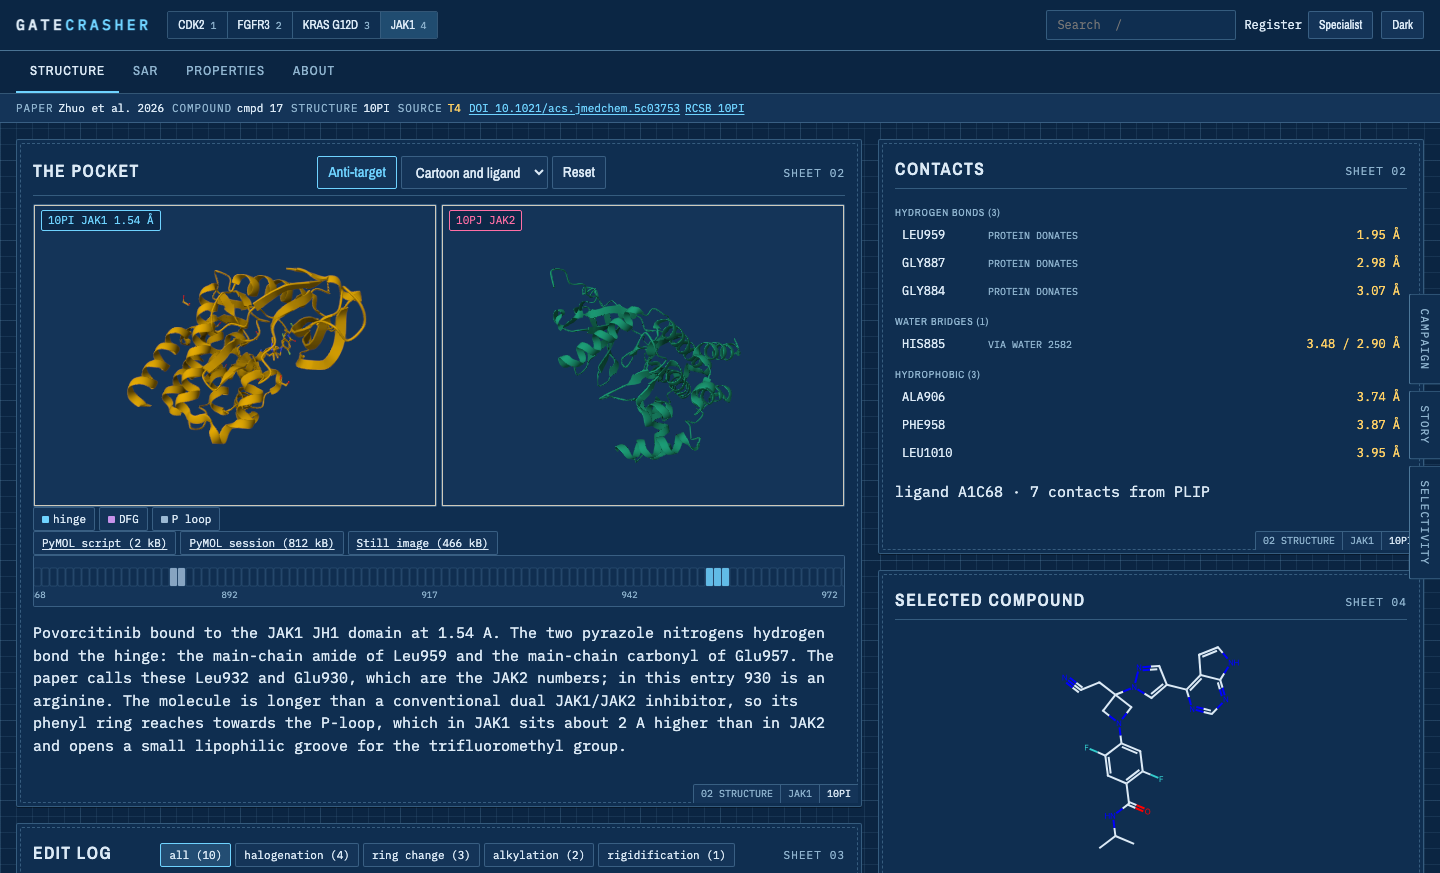
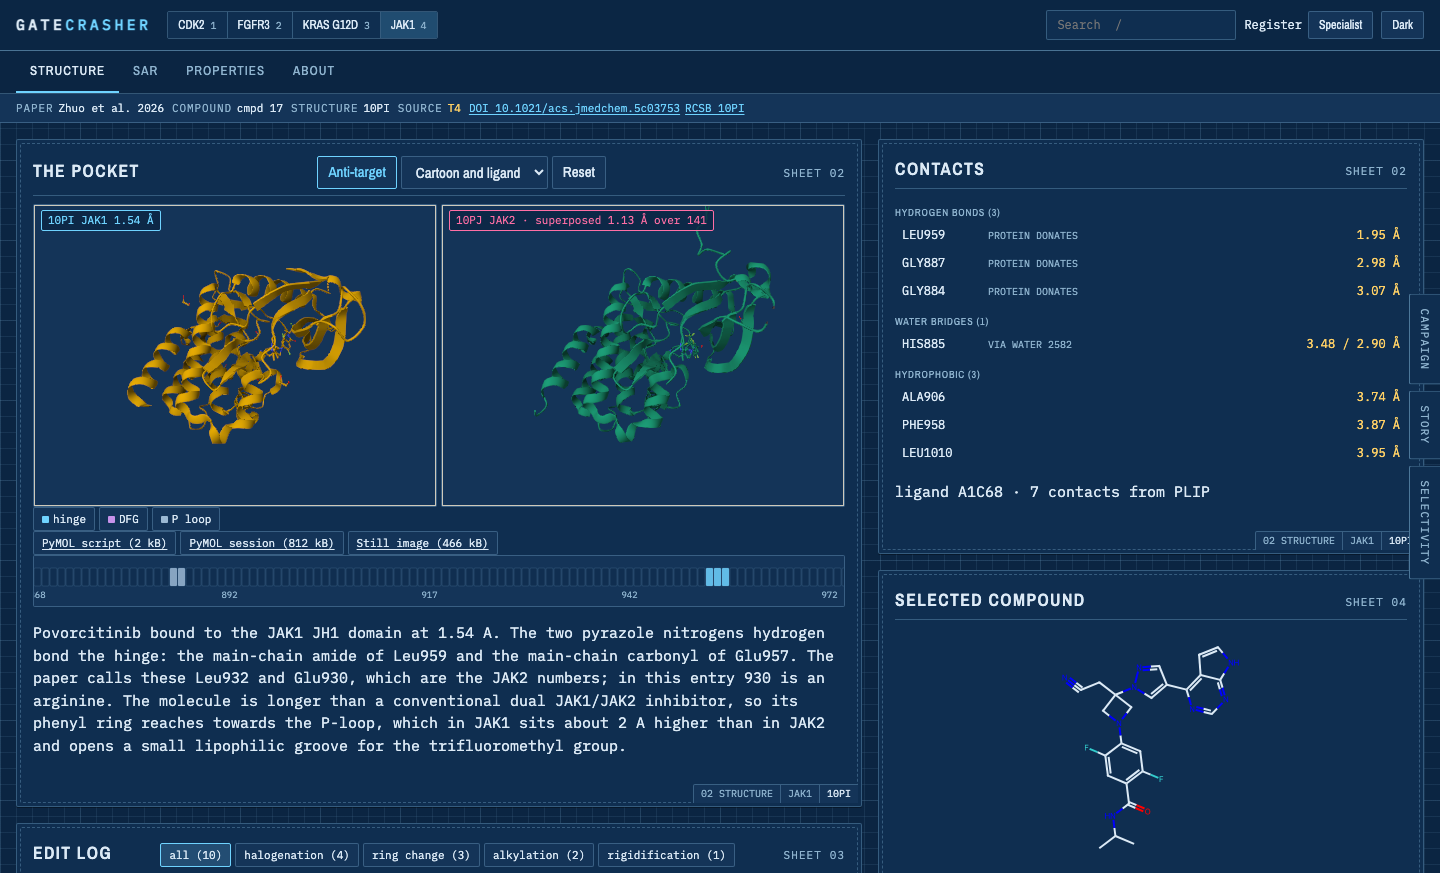
Superpose the twin before locking the cameras, and test that a canvas has drawn
Showing one copy per viewer exposed a latent bug: the anti-target viewer was
blank. The cameras are locked together (BUILD_SPEC 7.2) while each entry sits
in its own crystal frame, 10PI and 10PJ being 89 A apart, so the twin's camera
was pointed at empty space. With both copies present it had caught enough
protein to look fine.

- gc struct superposes every non-primary structure onto the paper's primary
  and ships the transform: JAK1 10PJ onto 10PI is 1.13 A over 141 pairs, and
  the two ligands land 2.0 A apart.
- The viewer applies it to the coordinates as it filters the chain, so what is
  measured is what is drawn. The twin's label carries the RMSD and the pair
  count: moving a structure is something a reader is entitled to know about.
- Both the RMSD and the MEDIAN CA deviation are published. FGFR3 4K33 onto
  FGFR2 8E1X is 3.82 A whole-chain but 1.01 A median: 26 residues in five
  loops carry the error, and one number alone would misrepresent the fit.
  Residues are paired by an offset discovered from the data (+9 for FGFR, +27
  for JAK1 against JAK2, the same +27 that separates Glu957 from Glu930).
- The browser checks now assert a canvas has DRAWN something, by counting
  distinct pixels, polled rather than sampled once. "A canvas exists" passed
  throughout the day the twin viewer was blank.

95 checks pass locally and against production.

Claude-Session: https://claude.ai/code/session_01HkDbmCTHqoA5exPm7uRHnP

Changed region(s): [[0.375, 0.2784, 0.5312, 0.5258], [0.375, 0.2474, 0.5, 0.2784], [0.1875, 0.3711, 0.2188, 0.4021]]

diff --git a/web/js/viewers/molstar.js b/web/js/viewers/molstar.js
@@ -18,7 +18,7 @@ import { loadLibrary } from '../loader.js';
  *
  * Only the _atom_site loop is touched. Everything else in the file is left alone, and if the
  * loop cannot be understood the original text is returned rather than a half-filtered one. */
-export function oneCopy(text, chain) {
+export function oneCopy(text, chain, transform = null) {
   const lines = text.split('\n');
   const headerStart = lines.findIndex((line) => line.startsWith('_atom_site.'));
   if (headerStart < 0) return text;
@@ -32,7 +32,13 @@ export function oneCopy(text, chain) {
   const authColumn = columns.indexOf('auth_asym_id');
   const entityColumn = columns.indexOf('label_entity_id');
   const groupColumn = columns.indexOf('group_PDB');
+  const xColumn = columns.indexOf('Cartn_x');
+  const yColumn = columns.indexOf('Cartn_y');
+  const zColumn = columns.indexOf('Cartn_z');
   if (authColumn < 0) return text;
+  if (transform && (transform.length < 12 || xColumn < 0 || yColumn < 0 || zColumn < 0)) {
+    return text;
+  }
 
   const rowStart = index;
   let rowEnd = rowStart;
@@ -66,9 +72,28 @@ export function oneCopy(text, chain) {
   }
 
   const kept = rows.filter((row) => keep.has(row.parts[authColumn]));
-  if (!kept.length || kept.length === rows.length) return text;
-  return [...lines.slice(0, rowStart), ...kept.map((row) => row.line), ...lines.slice(rowEnd)]
-    .join('\n');
+  if (!kept.length) return text;
+  if (kept.length === rows.length && !transform) return text;
+
+  /* A superposition, applied to the coordinates themselves. The twin view locks the two
+   * cameras together, and two entries sit in their own crystal frames: 10PI and 10PJ are
+   * 89 A apart, so a shared camera showed one structure and empty space. Moving the atoms
+   * rather than the camera keeps every later measurement, highlight and focus honest,
+   * because the viewer then measures exactly what it draws. */
+  const moved = transform ? kept.map((row) => {
+    const x = Number(row.parts[xColumn]);
+    const y = Number(row.parts[yColumn]);
+    const z = Number(row.parts[zColumn]);
+    if (!Number.isFinite(x) || !Number.isFinite(y) || !Number.isFinite(z)) return row.line;
+    const [m0, m1, m2, m3, m4, m5, m6, m7, m8, m9, m10, m11] = transform;
+    const parts = [...row.parts];
+    parts[xColumn] = (m0 * x + m1 * y + m2 * z + m3).toFixed(3);
+    parts[yColumn] = (m4 * x + m5 * y + m6 * z + m7).toFixed(3);
+    parts[zColumn] = (m8 * x + m9 * y + m10 * z + m11).toFixed(3);
+    return parts.join(' ');
+  }) : kept.map((row) => row.line);
+
+  return [...lines.slice(0, rowStart), ...moved, ...lines.slice(rowEnd)].join('\n');
 }
 
 const OPTIONS = {
@@ -162,12 +187,14 @@ export class StructureViewer {
    * assumed: an mmCIF served without an extension still has to load.
    *
    * `chain` keeps one copy of the protein: see oneCopy below. */
-  async load(name, url, { representation = 'cartoon', colour = null, chain = null } = {}) {
+  async load(name, url, { representation = 'cartoon', colour = null, chain = null,
+    transform = null } = {}) {
     const response = await fetch(url);
     if (!response.ok) throw new Error(`${url}: ${response.status}`);
     const raw = await response.text();
     const format = /\.cif|\.bcif/i.test(url) || raw.startsWith('data_') ? 'mmcif' : 'pdb';
-    const text = format === 'mmcif' && chain ? oneCopy(raw, chain) : raw;
+    const text = format === 'mmcif' && (chain || transform)
+      ? oneCopy(raw, chain, transform) : raw;
 
     if (this.loaded.has(name)) await this.clear(name);
     const data = await this.plugin.builders.data.rawData({ data: text });

diff --git a/web/js/data.js b/web/js/data.js
@@ -30,7 +30,7 @@ export async function loadPaper(slug, base = 'data') {
       .catch(() => [entry.pdb_id, null]))));
 
   const [paper, assays, structures, compoundsCsv, measurementsCsv, edits,
-    residuesCsv, story, cliffs, interactionPairs] = await Promise.all([
+    residuesCsv, story, cliffs, superpositions, interactionPairs] = await Promise.all([
     getJson(`${dir}/paper.json`),
     getJson(`${dir}/assays.json`),
     structuresRequest,
@@ -42,6 +42,8 @@ export async function loadPaper(slug, base = 'data') {
     getText(`${dir}/residues.csv`).catch(() => ''),
     getJson(`${dir}/story.json`).catch(() => null),
     getJson(`${dir}/cliffs.json`).catch(() => []),
+    /* How each other structure sits on the primary one, for the camera-locked twin view. */
+    getJson(`${dir}/superpositions.json`).catch(() => ({})),
     interactionsRequest,
   ]);
 
@@ -56,7 +58,7 @@ export async function loadPaper(slug, base = 'data') {
 
   const bundle = {
     slug, dir, paper, assays, structures, compounds, measurements,
-    residues, edits, story, cliffs, interactions,
+    residues, edits, story, cliffs, interactions, superpositions,
     index: buildIndexes({ paper, assays, compounds, measurements, residues, edits, structures, interactions }),
   };
   CACHE.set(slug, bundle);

diff --git a/web/js/panels/structure.js b/web/js/panels/structure.js
@@ -161,9 +161,18 @@ export function initStructure(state) {
     await viewer.create({ background: colourToInt(cssToken('--surface-2')) });
     if (anti !== viewer) return;
     el.antiLabel.textContent = `${twin.pdb_id} ${twin.contains.protein}`;
+    /* Superposed onto the target before it is drawn, because the cameras are locked: two
+     * entries in their own crystal frames share a camera only if one is moved onto the
+     * other. The label says so, and by how much, rather than moving coordinates silently. */
+    const fit = bundle.superpositions?.[twin.pdb_id];
+    if (fit) {
+      el.antiLabel.textContent = `${twin.pdb_id} ${twin.contains.protein} `
+        + `· superposed ${fit.rmsd_a} Å over ${fit.pairs}`;
+    }
     await viewer.load('anti', structureUrl(twin.pdb_id), {
       representation: el.representation.value,
       chain: twin.chain,
+      transform: fit?.matrix || null,
     });
     if (anti !== viewer) return;
     viewer.focusLigand();

diff --git a/pipeline/gcrash/struct.py b/pipeline/gcrash/struct.py
@@ -355,6 +355,48 @@ def _parse_plip(xml_path: Path, pdb_id: str, ligand_code: str, resname_map: dict
     }
 
 
+def _ca_deviations(fixed_chain, moving_chain, transform) -> tuple[list[float], int, int]:
+    """Per-residue CA deviations after superposition, and the numbering offset used.
+
+    Residues are paired through an offset DISCOVERED from the data: the one that makes the
+    most residue names agree. Pairing on the raw residue number would compare unrelated
+    residues and report nonsense with no error anywhere, because two isoforms are numbered
+    differently. Measured here: +9 for FGFR3 4K33 against FGFR2 8E1X (250 names agree), 0 for
+    the two KRAS entries (169), and +27 for JAK2 10PJ against JAK1 10PI (108), which is the
+    same +27 that separates Glu957 from Glu930 at the hinge.
+
+    gemmi's own alignment would serve, but align_string_sequences wants a sequence of single
+    characters rather than the string one_letter_code returns, and AlignmentResult has no
+    cigar() to walk, so this stays arithmetic and is checked against a known answer.
+    """
+    import math
+
+    def residues(chain):
+        return [r for r in chain if r.het_flag != "H" and not r.is_water()]
+
+    fixed_residues, moving_residues = residues(fixed_chain), residues(moving_chain)
+    fixed_names = {r.seqid.num: r.name for r in fixed_residues}
+    moving_names = {r.seqid.num: r.name for r in moving_residues}
+    offset, agreeing = 0, -1
+    for candidate in range(-60, 61):
+        score = sum(1 for num, name in fixed_names.items()
+                    if moving_names.get(num - candidate) == name)
+        if score > agreeing:
+            offset, agreeing = candidate, score
+
+    moving_ca = {r.seqid.num: r.find_atom("CA", "*") for r in moving_residues}
+    deviations: list[float] = []
+    for residue in fixed_residues:
+        atom = residue.find_atom("CA", "*")
+        partner = moving_ca.get(residue.seqid.num - offset)
+        if atom is None or partner is None:
+            continue
+        moved = transform.apply(partner.pos)
+        deviations.append(math.dist((atom.pos.x, atom.pos.y, atom.pos.z),
+                                    (moved.x, moved.y, moved.z)))
+    return deviations, offset, agreeing
+
+
 def _maybe_float(value):
     try:
         return round(float(value), 1)
@@ -428,6 +470,53 @@ def build(slug: str) -> dict:
             "interactions": n_inter,
         })
         report["interactions"] += n_inter
+
+    # Superpositions onto the paper's primary structure. The Structure sheet's twin view
+    # locks the two cameras together (BUILD_SPEC 7.2), and a shared camera is meaningless
+    # while each entry sits in its own crystal frame: 10PI and 10PJ are 89 A apart, so the
+    # second viewer was pointed at empty space and drew nothing at all. The transform is
+    # computed here, once, and travels with the bundle.
+    primary = next((e for e in entries if e.get("role") == "primary"), None)
+    superpositions = {}
+    if primary and len(entries) > 1:
+        fixed = gemmi.read_structure(str(fetch_cif(primary["pdb_id"])))
+        fixed.setup_entities()
+        for entry in entries:
+            if entry["pdb_id"] == primary["pdb_id"]:
+                continue
+            moving = gemmi.read_structure(str(fetch_cif(entry["pdb_id"])))
+            moving.setup_entities()
+            result = gemmi.calculate_superposition(
+                fixed[0][primary["chain"]].get_polymer(),
+                moving[0][entry["chain"]].get_polymer(),
+                gemmi.PolymerType.PeptideL, gemmi.SupSelect.CaP)
+            rows = [[result.transform.mat.row_copy(i)[j] for j in range(3)] for i in range(3)]
+            vec = result.transform.vec
+            # An RMSD is one number over the whole chain, and a handful of loose loops drag
+            # it a long way: FGFR3 4K33 onto FGFR2 8E1X is 3.82 A whole-chain while the
+            # MEDIAN CA deviation is 1.01 A, because 26 residues in five short stretches
+            # carry the error. Both numbers travel, so a good fit cannot read as a bad one.
+            deviations, offset, agreeing = _ca_deviations(
+                fixed[0][primary["chain"]], moving[0][entry["chain"]], result.transform)
+            median = (round(sorted(deviations)[len(deviations) // 2], 2) if deviations else None)
+            superpositions[entry["pdb_id"]] = {
+                "onto": primary["pdb_id"],
+                "chain": entry["chain"],
+                "onto_chain": primary["chain"],
+                "rmsd_a": round(result.rmsd, 2),
+                "median_ca_deviation_a": median,
+                "numbering_offset": offset,
+                "residue_names_agreeing": agreeing,
+                "pairs": int(result.count),
+                # Row-major 4x4, so the viewer can apply it without a matrix library.
+                "matrix": [round(v, 6) for row, t in zip(rows, (vec.x, vec.y, vec.z))
+                           for v in (*row, t)] + [0.0, 0.0, 0.0, 1.0],
+            }
+            report["structures"] = [
+                {**s, "superposed_onto": primary["pdb_id"],
+                 "superposition_rmsd_a": superpositions[entry["pdb_id"]]["rmsd_a"]}
+                if s["pdb_id"] == entry["pdb_id"] else s for s in report["structures"]]
+    (out_dir / "superpositions.json").write_text(json.dumps(superpositions, indent=1))
 
     with (out_dir / "residues.csv").open("w", newline="") as fh:
         writer = csv.DictWriter(fh, fieldnames=["pdb_id", "chain", "resnum", "resname",

diff --git a/tools/browser_check.py b/tools/browser_check.py
@@ -624,6 +624,36 @@ def main() -> int:
         check("jak1: the second structure loaded its own coordinates",
               tab.wait_for("!!document.querySelector('#viewer-anti canvas')", 40),
               "no canvas in the anti-target host")
+        # A canvas can exist and be blank. It was: the twin's camera is locked to the
+        # target's, and with each entry in its own crystal frame the second viewer pointed 89
+        # angstroms away from its own structure and drew nothing, with no error anywhere.
+        # Reading the pixels is the only check that would have caught it.
+        drawn = """(id) => { const c = document.querySelector('#' + id + ' canvas');
+            if (!c) return 0;
+            const gl = c.getContext('webgl2') || c.getContext('webgl');
+            const px = new Uint8Array(4 * 64 * 64);
+            gl.readPixels(Math.floor(c.width / 2) - 32, Math.floor(c.height / 2) - 32, 64, 64,
+                          gl.RGBA, gl.UNSIGNED_BYTE, px);
+            const seen = new Set();
+            for (let i = 0; i < px.length; i += 4) seen.add(px[i] + ',' + px[i + 1] + ',' + px[i + 2]);
+            return seen.size; }"""
+        for host, label in (("viewer-target", "target"), ("viewer-anti", "anti-target")):
+            # Polled, not sampled once: a canvas exists long before it has drawn, and the
+            # twin has 766 kB of coordinates to fetch, parse, superpose and render first.
+            # Reading immediately measured the loading gap and reported a working viewer as
+            # blank.
+            colours = 0
+            for _ in range(60):
+                colours = tab.js(f"({drawn})({host!r})")
+                if isinstance(colours, int) and colours > 1:
+                    break
+                time.sleep(0.5)
+            check(f"jak1: the {label} viewer has actually drawn something",
+                  isinstance(colours, int) and colours > 1,
+                  f"{colours} distinct colours in the centre of the canvas")
+        check("jak1: the twin says it was superposed, and by how much",
+              "superposed" in (tab.js("document.getElementById('viewer-anti-label').textContent") or ""),
+              tab.js("document.getElementById('viewer-anti-label').textContent"))
         check("jak1: the twin is labelled as the anti-target",
               "JAK2" in (tab.js("document.getElementById('viewer-anti-label').textContent") or ""),
               tab.js("document.getElementById('viewer-anti-label').textContent"))

diff --git a/pipeline/gcrash/bundle.py b/pipeline/gcrash/bundle.py
@@ -141,6 +141,8 @@ def build(slug: str) -> dict:
     # structure products
     if (build_d / "residues.csv").exists():
         shutil.copy2(build_d / "residues.csv", out / "residues.csv")
+    if (build_d / "superpositions.json").exists():
+        shutil.copy2(build_d / "superpositions.json", out / "superpositions.json")
     if (build_d / "interactions").is_dir():
         target = out / "interactions"
         target.mkdir(exist_ok=True)

diff --git a/HARVEST.md b/HARVEST.md
@@ -119,6 +119,20 @@ the provenance of the data.
    outright rather than hiding it, so a ligand selection cannot pick up its twin and `within`
    cannot measure to it.
 
+14. **The twin view superposes the anti-target onto the target, and says so.** BUILD_SPEC 7.2
+   asks for a second Mol\* instance with locked cameras, and calls it an explicit
+   requirement. It does not say what to do about the fact that two deposited entries sit in
+   their own crystal frames: 10PI and 10PJ are 89 A apart, so one camera cannot show both.
+   Once each viewer showed a single copy (divergence 13) the second viewer pointed at empty
+   space and drew nothing, silently. `gc struct` now superposes every non-primary structure
+   onto the paper's primary (gemmi, CA atoms) and ships the transform in
+   `superpositions.json`; the viewer applies it to the coordinates as it filters the chain,
+   so what is measured is what is drawn. The twin's label carries the RMSD and the number of
+   matched atoms, because moving a structure is something a reader is entitled to know
+   about: JAK1 10PJ onto 10PI is 1.13 A over 141 pairs, and the two ligands land 2.0 A apart.
+   This is the PANTS pattern (superposed structures, pre-superposed at write) rather than an
+   invention.
+
 ## Added here, not harvested
 
 - **OPSIN (`py2opsin`) for name-to-structure verification.** Nothing in the portfolio does
